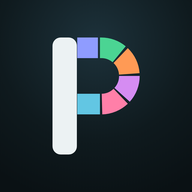
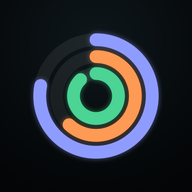
Icona ad anelli su fondo più scuro e app rinominata Personal Tracker
L'icona riprende i tre anelli della Home (studio, proteine, allenamento)
su un fondo quasi nero; schermate di avvio più scure. Nome dell'app,
titolo, schermata di accesso, intestazioni e widget passano da Libretto
a Personal Tracker. Cache del service worker a v3.

Claude-Session: https://claude.ai/code/session_017dMtFuCQ9kdJQCNcUx3vJN

diff --git a/index.html b/index.html
@@ -3,14 +3,14 @@
 <head>
 <meta charset="utf-8">
 <meta name="viewport" content="width=device-width,initial-scale=1,viewport-fit=cover">
-<title>Libretto Personale</title>
-<meta name="description" content="Il libretto di Michele: studio, allenamento, proteine, lettura e spese.">
+<title>Personal Tracker</title>
+<meta name="description" content="Il tracker personale di Michele: studio, allenamento, proteine, lettura e spese.">
 <link rel="manifest" href="manifest.json">
 <meta name="theme-color" content="#ECEFF0" media="(prefers-color-scheme: light)">
 <meta name="theme-color" content="#0A1114" media="(prefers-color-scheme: dark)">
 <meta name="mobile-web-app-capable" content="yes">
 <meta name="apple-mobile-web-app-capable" content="yes">
-<meta name="apple-mobile-web-app-title" content="Libretto">
+<meta name="apple-mobile-web-app-title" content="Personal Tracker">
 <meta name="apple-mobile-web-app-status-bar-style" content="black-translucent">
 <link rel="icon" type="image/png" sizes="32x32" href="icons/favicon-32.png">
 <link rel="icon" type="image/png" sizes="192x192" href="icons/icon-192.png">
@@ -582,8 +582,8 @@ html.gated,html.gated body{overflow:hidden}
 <!-- accesso con email (solo PWA) -->
 <div id="gate" hidden>
   <div class="gbox">
-    <div class="glogo"><span class="logo" aria-hidden="true">L</span></div>
-    <h1>Libretto<span>.</span></h1>
+    <div class="glogo"><span class="logo" aria-hidden="true">P</span></div>
+    <h1>Personal Tracker<span>.</span></h1>
     <p>Accedi con la tua email: ti arriva un codice da scrivere qui sotto.</p>
     <form id="gForm" novalidate>
       <label id="gLbl" for="gInput">La tua email</label>
@@ -598,7 +598,7 @@ html.gated,html.gated body{overflow:hidden}
 
 <!-- barra laterale (PC) -->
 <aside class="side" aria-label="Sezioni">
-  <div class="brandmark"><span class="logo" aria-hidden="true">L</span><div><b>Libretto</b><small>Personale</small></div></div>
+  <div class="brandmark"><span class="logo" aria-hidden="true">P</span><div><b>Personal</b><small>Tracker</small></div></div>
   <nav class="snav">
     <button class="navbtn" data-v="home" style="--c:var(--c-prot)"><span class="ic"><svg class="i" viewBox="0 0 24 24"><path d="M4 11.5 12 5l8 6.5V19a1 1 0 0 1-1 1h-4.5v-5.5h-5V20H5a1 1 0 0 1-1-1z"/></svg></span>Home</button>
     <button class="navbtn" data-v="oggi" style="--c:var(--c-study)"><span class="ic"><svg class="i" viewBox="0 0 24 24"><rect x="4" y="5" width="16" height="15" rx="3"/><path d="M8 3v4M16 3v4M4 10h16M9 15l2 2 4-4"/></svg></span>Oggi</button>
@@ -620,9 +620,9 @@ html.gated,html.gated body{overflow:hidden}
 
 <div class="main">
   <header class="top">
-    <div id="pageHead" hidden><span class="eyebrow">Libretto personale</span><h1 id="pageTitle">Oggi</h1><p id="pageSub"></p></div>
+    <div id="pageHead" hidden><span class="eyebrow">Personal Tracker</span><h1 id="pageTitle">Oggi</h1><p id="pageSub"></p></div>
     <div class="banner sync" id="syncBanner" hidden>Sei offline: le modifiche restano su questo dispositivo e si sincronizzano appena torna la rete.</div>
-    <div class="banner" id="localBanner" hidden>Stai usando il libretto senza accesso: i dati restano solo in questo browser.</div>
+    <div class="banner" id="localBanner" hidden>Stai usando il tracker senza accesso: i dati restano solo in questo browser.</div>
   </header>
 
   <!-- HOME -->

diff --git a/widget/Libretto-widget.js b/widget/Libretto-widget.js
@@ -47,8 +47,8 @@ function parseBlob(t) {
 }
 async function askCfg(msg) {
   const a = new Alert();
-  a.title = "Collega il Libretto";
-  a.message = (msg ? msg + "\n\n" : "") + "Nel Libretto apri Obiettivi → \"Copia codice per il widget\", poi incolla qui.";
+  a.title = "Collega il Tracker";
+  a.message = (msg ? msg + "\n\n" : "") + "Nel Tracker apri Obiettivi → \"Copia codice per il widget\", poi incolla qui.";
   a.addTextField("LIBRETTO|https://…", Pasteboard.paste() || "");
   a.addAction("Salva");
   a.addCancelAction("Annulla");
@@ -166,7 +166,7 @@ async function build(d, cfg, note) {
 
   // intestazione
   const h = w.addStack(); h.centerAlignContent();
-  const b = h.addText("Libretto"); b.font = Font.heavyRoundedSystemFont(14); b.textColor = C.fg;
+  const b = h.addText("Personal Tracker"); b.font = Font.heavyRoundedSystemFont(14); b.textColor = C.fg;
   const dt = h.addText("."); dt.font = Font.heavyRoundedSystemFont(14); dt.textColor = C.prot;
   h.addSpacer();
   if (d && fam !== "small") {
@@ -212,7 +212,7 @@ let stop = false;
 if (config.runsInApp) {
   if (cfg) {
     const a = new Alert();
-    a.title = "Libretto";
+    a.title = "Personal Tracker";
     a.addAction("Mostra il widget");
     a.addAction("Cambia codice");
     a.addCancelAction("Chiudi");
@@ -228,11 +228,11 @@ let data = null, note = null;
 if (stop) {
   // chiuso dall'utente
 } else if (!cfg) {
-  note = "Apri questo script in Scriptable per collegarlo al Libretto.";
+  note = "Apri questo script in Scriptable per collegarlo al Tracker.";
 } else {
   try { data = await load(cfg); }
   catch (e) {
-    if (e.auth) { note = "Codice non valido: copialo di nuovo dal Libretto."; }
+    if (e.auth) { note = "Codice non valido: copialo di nuovo dal Tracker."; }
     else {
       data = cached();
       note = data ? "offline · dati delle " + hhmm(data.fetchedAt) : "Nessuna connessione.";

diff --git a/widget.html b/widget.html
@@ -3,7 +3,7 @@
 <head>
 <meta charset="utf-8">
 <meta name="viewport" content="width=device-width,initial-scale=1,viewport-fit=cover">
-<title>Widget del Libretto</title>
+<title>Widget del Tracker</title>
 <meta name="robots" content="noindex">
 <link rel="icon" type="image/png" sizes="32x32" href="icons/favicon-32.png">
 <style>
@@ -23,14 +23,14 @@ textarea{width:100%;min-height:160px;border-radius:12px;background:var(--card);c
 </head>
 <body>
 <main>
-  <h1>Widget del Libretto<span>.</span></h1>
+  <h1>Widget del Tracker<span>.</span></h1>
   <p>Questa pagina serve solo a copiare lo script del widget in Scriptable.</p>
   <button id="copy">Copia lo script</button>
   <div id="msg" role="status" aria-live="polite"></div>
   <ol>
     <li>Apri Scriptable e tocca <b>+</b>.</li>
     <li>Tocca il foglio vuoto e scegli <b>Incolla</b>.</li>
-    <li>Tocca il titolo in alto e chiamalo <b>Libretto</b>, poi <b>Fine</b>.</li>
+    <li>Tocca il titolo in alto e chiamalo <b>Tracker</b>, poi <b>Fine</b>.</li>
   </ol>
   <textarea id="code" readonly hidden></textarea>
 </main>

diff --git a/sw.js b/sw.js
@@ -1,7 +1,7 @@
 /* Libretto Personale: service worker.
    Pagina e file dell'app: prima la rete (così gli aggiornamenti arrivano subito), copia salvata se offline.
    Font Google: dalla copia salvata. Le chiamate a Supabase non passano di qui. */
-const VERSION = 'libretto-v2';
+const VERSION = 'libretto-v3';
 const SHELL = [
   './', 'index.html', 'config.js', 'libretto-sync.js', 'vendor/supabase-2.117.3.js', 'manifest.json',
   'img/hero.jpg', 'icons/icon-192.png', 'icons/icon-512.png', 'icons/apple-touch-icon.png', 'icons/favicon-32.png'
